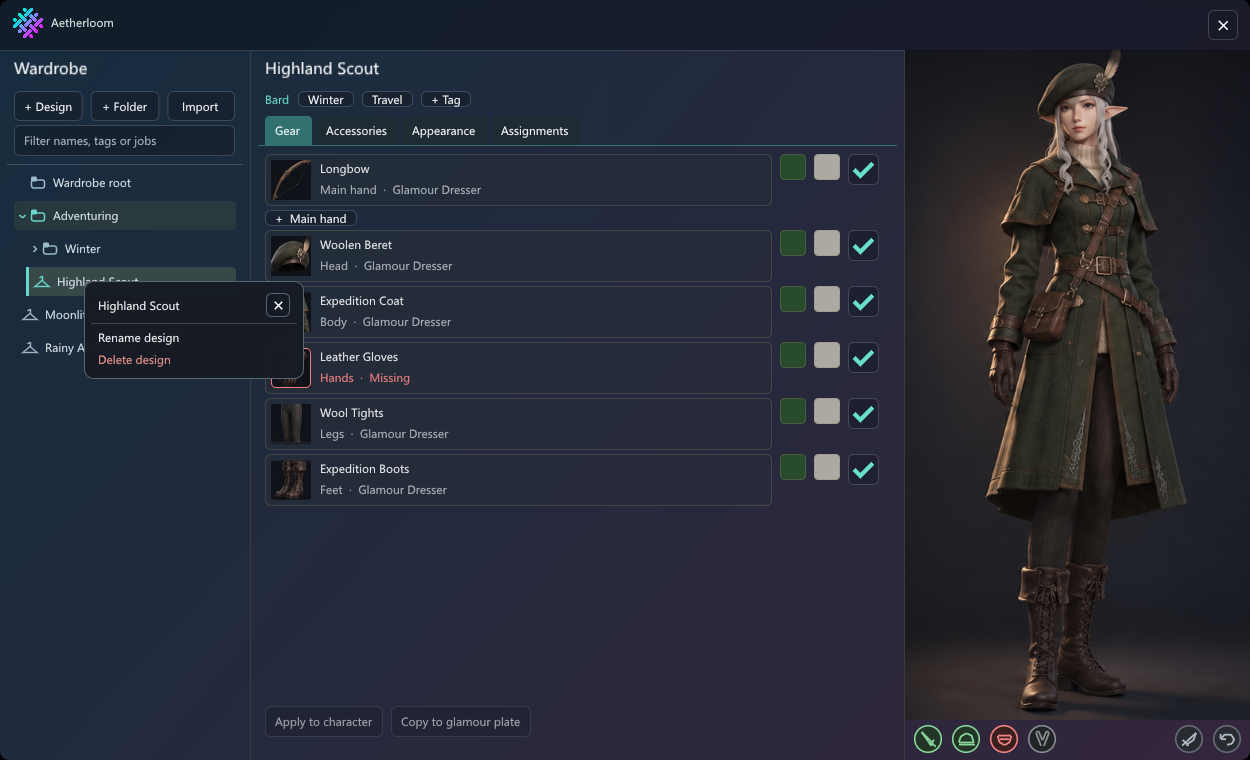
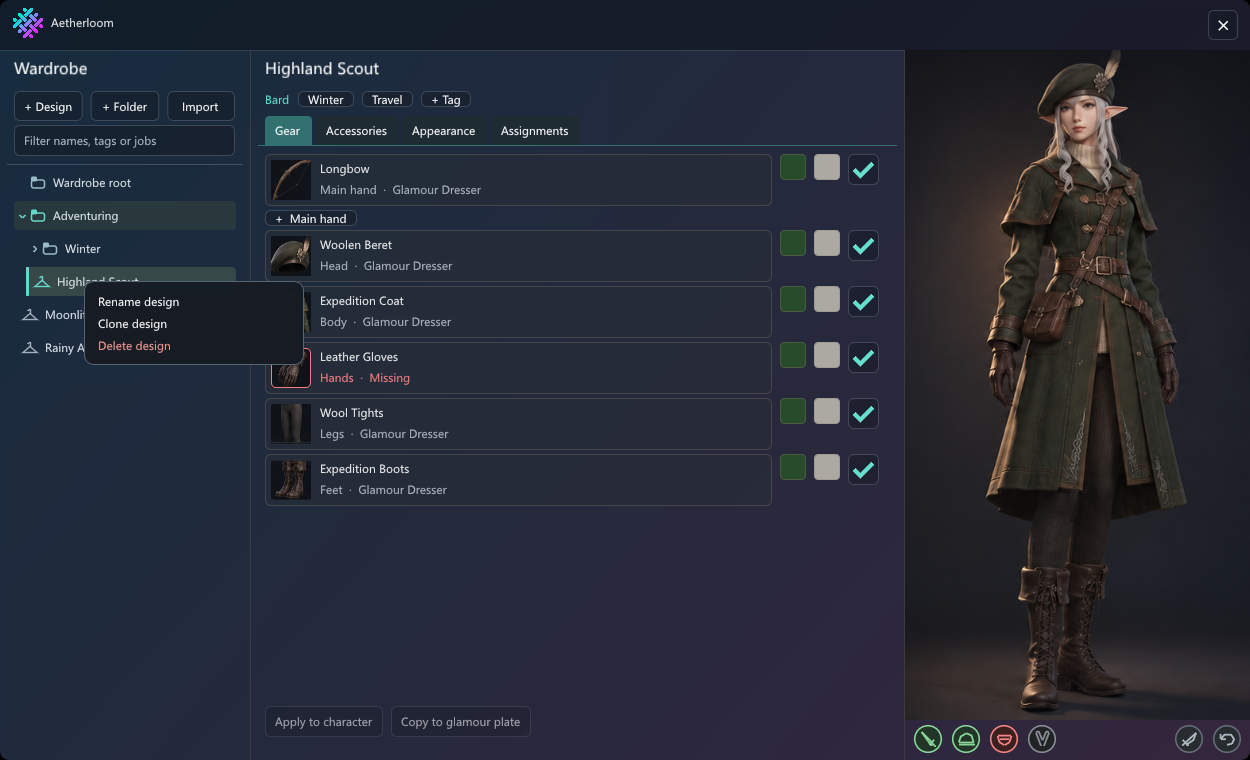
Preview the headerless design menu and verify clone selection

Changed region(s): [[0.0624, 0.3934, 0.2496, 0.5145]]

diff --git a/WardrobePreview/Program.cs b/WardrobePreview/Program.cs
@@ -47,10 +47,15 @@ internal sealed class RenderForm(string? scene,string? output):Form
     {
         if(surface==null||layout==null)return;
         var io=ImGui.GetIO();io.DisplaySize=new(ClientSize.Width,ClientSize.Height);io.DeltaTime=.025f;
-        if((scene is "folder-menu" or "design-menu") && frame is 2 or 3)
+        if((scene is "folder-menu" or "design-menu" or "design-clone") && frame is 2 or 3)
         {
-            io.AddMousePosEvent(84,scene=="design-menu"?281:215);
+            io.AddMousePosEvent(84,scene=="folder-menu"?215:281);
             io.AddMouseButtonEvent(1,frame==2);
+        }
+        if(scene=="design-clone" && frame is 5 or 6 or 7)
+        {
+            io.AddMousePosEvent(132,324);
+            if(frame>=6)io.AddMouseButtonEvent(0,frame==6);
         }
         if(scene=="folder-drag")
         {
@@ -70,7 +75,11 @@ internal sealed class RenderForm(string? scene,string? output):Form
         if(frame is 1 or 2)layout.Show(scene switch{"hair" or "paint" or "colors" or "appearance"=>"Appearance","accessories" or "earrings" or "clear-accessory"=>"Accessories","assignments" or "jobs" or "zones"=>"Assignments",_=>"Gear"},
             scene switch{"import"=>"import","tags"=>"add-tag","jobs"=>"Jobs","zones"=>"Zones","dye" or "dye-neutral"=>"Body-dye0","colors"=>"HairColor","items" or "clear-gear"=>"Body","earrings" or "clear-accessory"=>"Ears","hair"=>"Hairstyle","paint"=>"FacePaint",_=>null});
         layout.Draw(()=>BeginInvoke(Close));ImGui.End();ImGui.Render();surface.Paint(ClientSize.Width,ClientSize.Height);
-        if(++frame==(scene is "folder-drag" or "clear-gear" or "clear-accessory"?9:6) && output!=null){
+        if(++frame==(scene is "design-clone" or "folder-drag" or "clear-gear" or "clear-accessory"?9:6) && output!=null){
+            if(scene=="design-clone" && (fixture!.Title!="Highland Scout (copy)" ||
+                !fixture.Designs.Any(d=>d.Name=="Highland Scout" && d.Id!=fixture.Selected) ||
+                fixture.Assigned("Jobs").Count!=0))
+                throw new InvalidOperationException("Cloning must select an independent, unassigned copy.");
             if(scene=="folder-drag" && !fixture!.Folders.Contains("[AL] Winter"))
                 throw new InvalidOperationException("Dropping Winter onto the root did not promote it.");
             if(scene is "clear-gear" or "clear-accessory")

diff --git a/WardrobePreview/WardrobeFixture.cs b/WardrobePreview/WardrobeFixture.cs
@@ -89,6 +89,13 @@ internal sealed class WardrobeFixture:IWardrobe
         return folders.Remove(path);
     }
     public void MoveDesign(Guid id,string folder)=>paths[id]=folder;
+    public void CloneDesign(Guid source,string name)
+    {
+        var entry=Designs.Single(d=>d.Id==source);
+        Selected=Guid.NewGuid();
+        designs.Add((Selected,name,[..entry.Tags]));
+        paths[Selected]=entry.Folder;
+    }
     public bool RenameDesign(Guid id,string name)
     {
         var index=designs.FindIndex(d=>d.Id==id);if(index<0)return false;
